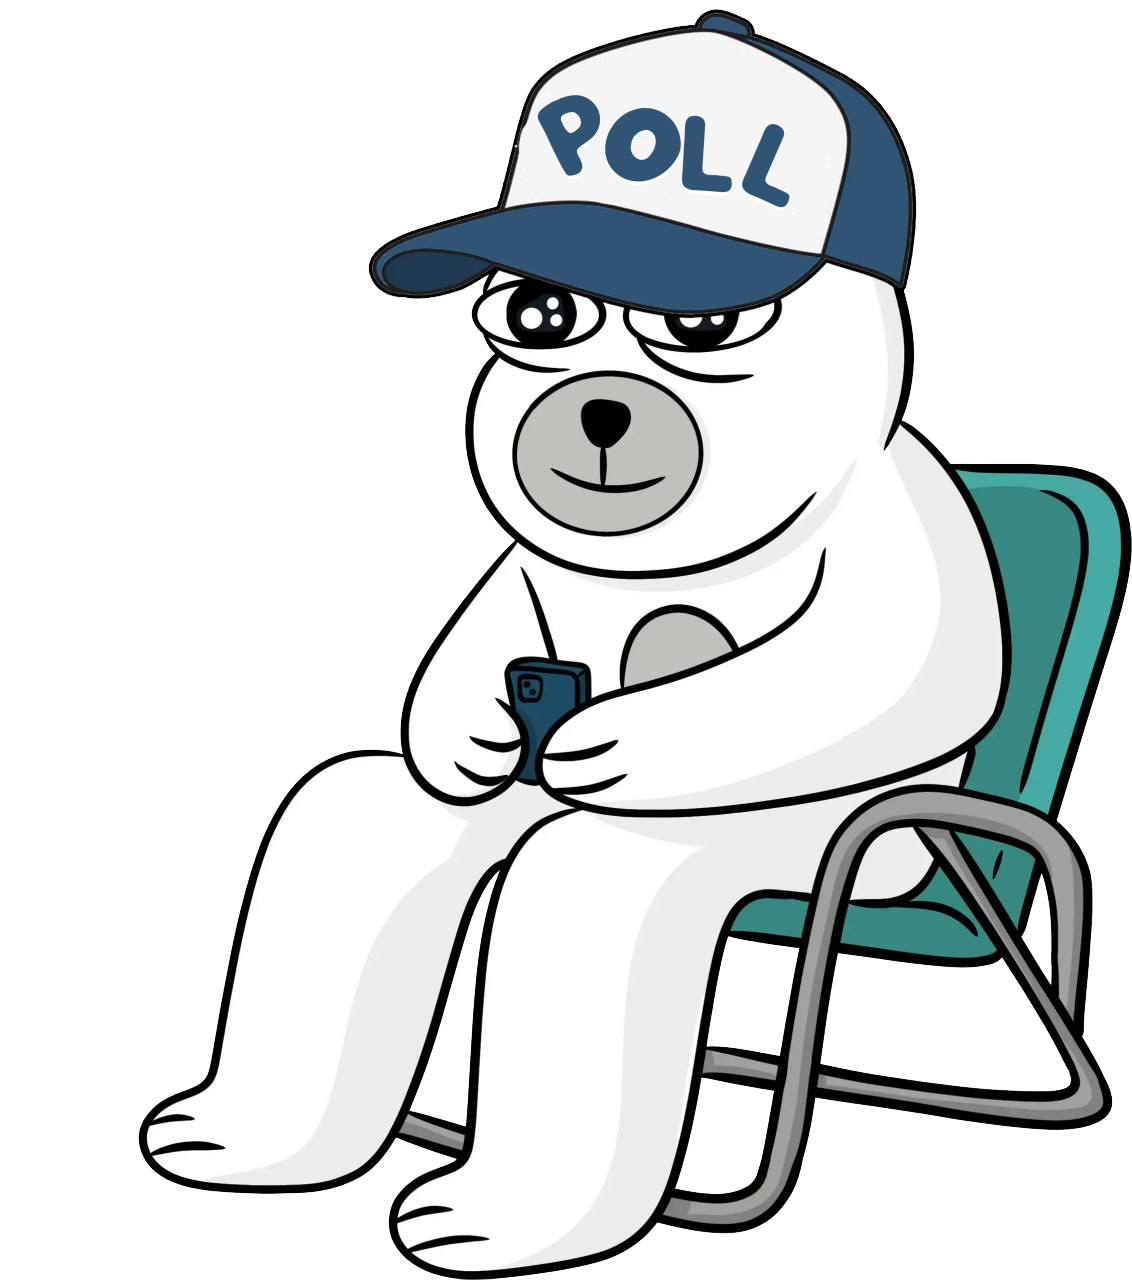
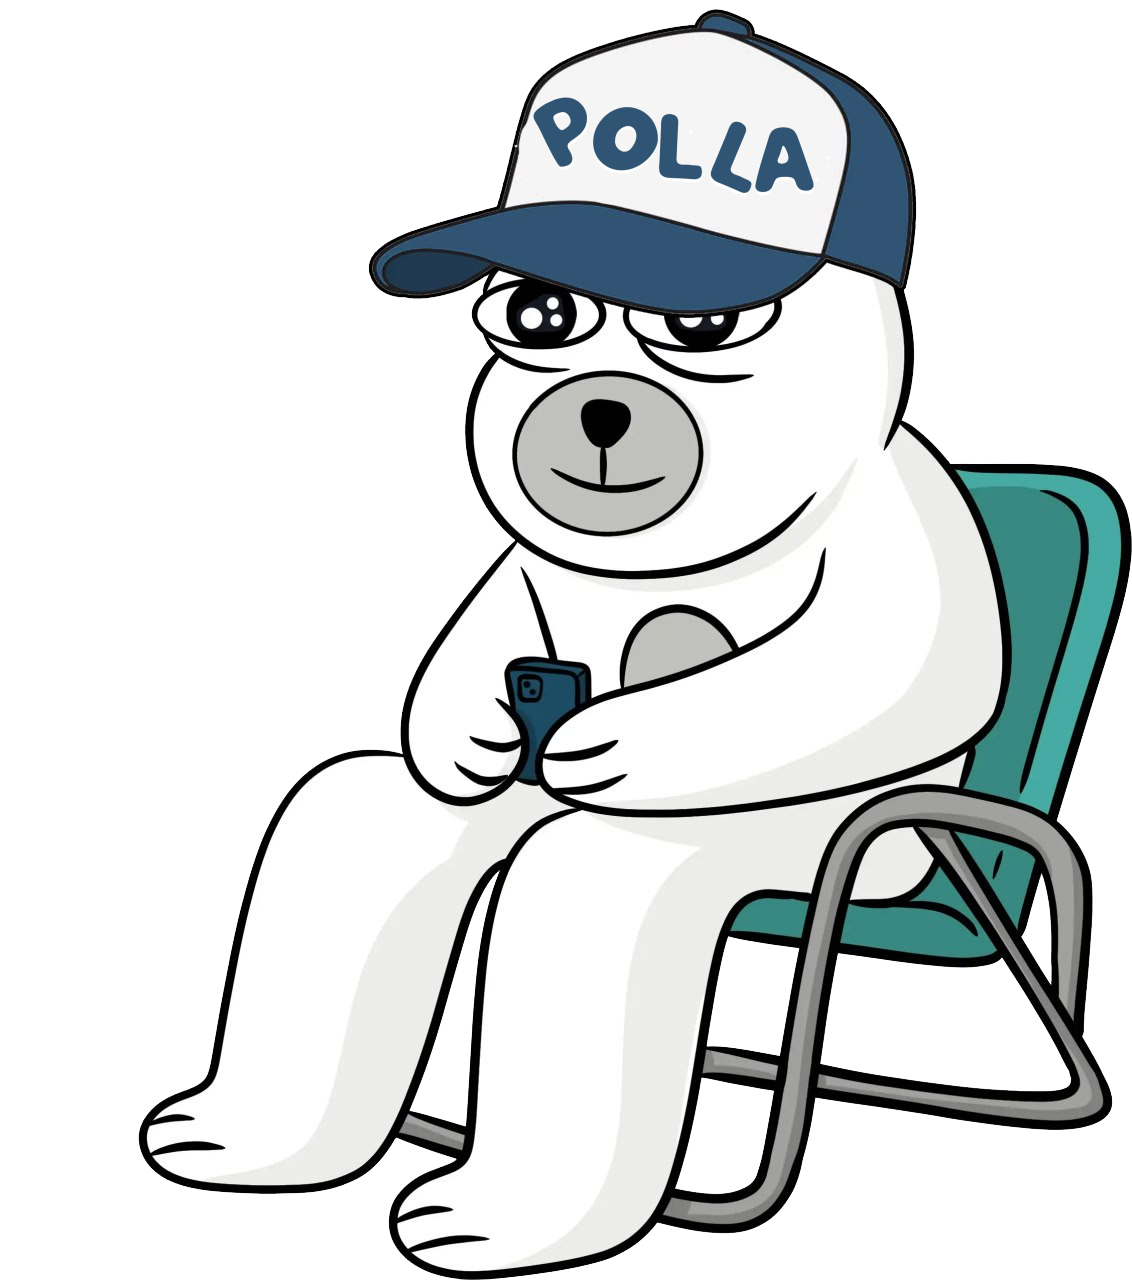
1

Changed region(s): [[0.4638, 0.0625, 0.742, 0.1562]]

diff --git a/index.html b/index.html
@@ -16,22 +16,22 @@
 		<meta name="distribution" content="global"> 
 		<meta name="robots" content="index,follow"> 
 		<meta name="country" content="US">
-		<meta name="description" content="POLL is the newest charismatic fluffy ruler of the frozen crypto tundra. This fun, decentralized, community-driven token is built on Solana Chain.">
+		<meta name="description" content="POLLA is the newest charismatic fluffy ruler of the frozen crypto tundra. This fun, decentralized, community-driven token is built on Solana Chain.">
 		<meta name="google-site-verification" content="">
 		
 		<!-- Open Graph Meta Tags -->
 		<meta property="og:type" content="website">
 		<meta property="og:url" content="">
-		<meta property="og:title" content="POLL | The Official POLL Bear on Solanachain">
-		<meta property="og:description" content="POLL is the newest charismatic fluffy ruler of the frozen crypto tundra. This fun, decentralized, community-driven token is built on Solana Chain.">
+		<meta property="og:title" content="POLLA | The Official POLLA Bear on Solanachain">
+		<meta property="og:description" content="POLLA is the newest charismatic fluffy ruler of the frozen crypto tundra. This fun, decentralized, community-driven token is built on Solana Chain.">
 
 		
 		<!-- Twitter Card Meta Tags -->
 		<meta name="twitter:card" content="summary_large_image">
 		<meta name="twitter:site" content="@polaonbase">
 		<meta name="twitter:url" content="https://www.polaonbase.com/">
-		<meta name="twitter:title" content="POLL | The Official POLLr Bear on Solanachain">
-		<meta name="twitter:description" content="POLL is the newest charismatic fluffy ruler of the frozen crypto tundra. This fun, decentralized, community-driven token is built on Solana Chain.">
+		<meta name="twitter:title" content="POLLA | The Official POLLAr Bear on Solanachain">
+		<meta name="twitter:description" content="POLLA is the newest charismatic fluffy ruler of the frozen crypto tundra. This fun, decentralized, community-driven token is built on Solana Chain.">
 		<meta property="twitter:image" content="https://polaonbase.com/assets/images/pola-twitter-og.jpg">
 		
 		<!-- Favicon and Additional Resources -->
@@ -44,7 +44,7 @@
 		<meta name="msapplication-TileColor" content="#9c2730">
 		<meta name="theme-color" content="#ffffff">
 		
-		<title>POLL | The Official Polar Bear on Solanachain</title>
+		<title>POLLA | The Official Polar Bear on Solanachain</title>
 		<link href="assets/css/include.css" rel="stylesheet">
 		<!-- Google tag (gtag.js) -->
 		<script async src="https://www.googletagmanager.com/gtag/js?id=G-083C66RB80"></script>
@@ -74,12 +74,12 @@
 							<span>O</span>
 							<span>L</span>
 							<span>L</span>
-<!--							<span style="rotate: -10deg; margin-left:-20px; margin-right: 10px;">E</span>-->
+							<span style="rotate: -10deg; margin-left:-20px; margin-right: 10px;">A</span>
 <!--							<span>R</span>-->
 
 						</h1>
 						<div class="vstack mx-auto col-12 col-xl-6 milky fs-3 text-center gap-1 lh-base text-blue-4">
-							<span>Hi I'm POLL</span>
+							<span>Hi I'm POLLA</span>
 							<span>I'm the coldest, chillest, and funniest bear</span>
 							<span>in the entire SOLArctic. Welcome to my world.</span>
 						</div>
@@ -138,8 +138,8 @@
 				<div class="container py-5 position-relative">
 					<div class="d-flex flex-column col-12 col-lg-8 justify-content-center gap-4 text-center position-relative z-1 py-0 py-md-5 text-blue-4 milky">
 						<h2 class="display-3">A New King Has Risen</h2>
-						<p class="fs-5 lh-base">Meet POLL, the latest ruler of the icy domains of cryptocurrency, a royal polar bear who's more chilled than the arctic ice and cooler than the other side of the pillow. Born on the vast, frostbitten landscapes of the Solana Chain, this fluffy monarch has swiftly ascended to the throne, not through bloodshed or conquest, but with sheer charisma and an unshakable belief in the power of meme magic.</p>
-						<p class="fs-5 lh-base">This is not your average bear. POLL's reign is marked by his unorthodox approach to governance; he rules with a gentle paw and a heart as big as his appetite for salmon. In a world where seriousness often overshadows fun, POLL dares to ask, "Why not both?" He's democratizing the crypto kingdom one belly slide at a time, proving that you can indeed mix business with pleasure and that every bear can have his fish and eat it too.</p>
+						<p class="fs-5 lh-base">Meet POLLA, the latest ruler of the icy domains of cryptocurrency, a royal polar bear who's more chilled than the arctic ice and cooler than the other side of the pillow. Born on the vast, frostbitten landscapes of the Solana Chain, this fluffy monarch has swiftly ascended to the throne, not through bloodshed or conquest, but with sheer charisma and an unshakable belief in the power of meme magic.</p>
+						<p class="fs-5 lh-base">This is not your average bear. POLLA's reign is marked by his unorthodox approach to governance; he rules with a gentle paw and a heart as big as his appetite for salmon. In a world where seriousness often overshadows fun, POLLA dares to ask, "Why not both?" He's democratizing the crypto kingdom one belly slide at a time, proving that you can indeed mix business with pleasure and that every bear can have his fish and eat it too.</p>
 					</div>
 				</div>
 				<div class="baby-pola"></div>
@@ -149,17 +149,17 @@
 					<div class="d-flex flex-column-reverse flex-md-row gap-4">
 						<div class="d-flex flex-column justify-content-center gap-4 col-12 col-md-6">
 							<div class="d-flex flex-column gap-1 text-blue-4">
-								<span class="fs-4 milky lh-base">POLL on Solanachain</span>
-								<h2 class="milky display-s lh-1 ">OFFICIAL POLL LINKS</h2>
+								<span class="fs-4 milky lh-base">POLLA on Solanachain</span>
+								<h2 class="milky display-s lh-1 ">OFFICIAL POLLA LINKS</h2>
 							</div>
 
 							<div class="d-flex flex-column gap-2">
 								<span class="fs-6 milky fw-bolder text-blue-4">Social &amp; Onchain Data</span>
 								<div class="socials hstack gap-3">
-									<a href="https://x.com/pollsolana" target="_blank">
+									<a href="https://x.com/pollasolana" target="_blank">
 										<div class="icon twitter rounded-circle"></div>
 									</a>
-									<a href="https://t.me/pollsolana" target="_blank">
+									<a href="https://t.me/pollasolana" target="_blank">
 										<div class="icon telegram rounded-circle"></div>
 									</a>
 									<a href="#" target="_blank">
@@ -174,7 +174,7 @@
 								<span class="fs-6 milky fw-bolder text-blue-4">Exchanges (MORE TBA)</span>
 								<div class="row row-cols-2 row-cols-lg-3 g-3">
 									<div class="col">
-										<a href="https://pump.fun/RXo6mydUkNvdM3sw9h8bYDQHK9xH2oh54W9f8gcQump" target="_blank" class="h-100 btn btn-md btn-light rounded-pill w-100 py-2 px-3">
+										<a href="https://pump.fun/QuA4bcRodooYH5F9ooQM9emk1wAzX2sZEE9m4Zx9ump" target="_blank" class="h-100 btn btn-md btn-light rounded-pill w-100 py-2 px-3">
 											<img src="assets/logos/pumpfun.svg" class="w-75 mt-1" alt="uniswap link">
 										</a>
 									</div>
@@ -197,10 +197,10 @@
 							</div-->
 						</div>
 						<div class="col-12 col-md-4 pola-in-phone">
-							<a class="polarmy-buble polarmy-link" href="https://t.me/pollsolana"><img src="assets/images/pola-phone-bubble-r.png" class="w-100 " alt="click to join polarmy"></a>
-							<a href="https://t.me/pollsolana"><img src="assets/images/pola-phone-r.png" class="w-100 " alt="pola having fun on tg"></a>
-							<a class="polarmy-buble polarmy-link" href="https://t.me/pollsolana"><img src="assets/images/pola-phone-bubble-l.png" class="w-100 " alt="click to join polarmy"></a>
-							<a  href="https://t.me/pollsolana"><img src="assets/images/pola-phone-l.png" class="w-100 " alt="pola having fun on tg"></a>
+							<a class="polarmy-buble polarmy-link" href="https://t.me/pollasolana"><img src="assets/images/pola-phone-bubble-r.png" class="w-100 " alt="click to join polarmy"></a>
+							<a href="https://t.me/pollasolana"><img src="assets/images/pola-phone-r.png" class="w-100 " alt="pola having fun on tg"></a>
+							<a class="polarmy-buble polarmy-link" href="https://t.me/pollasolana"><img src="assets/images/pola-phone-bubble-l.png" class="w-100 " alt="click to join polarmy"></a>
+							<a  href="https://t.me/pollasolana"><img src="assets/images/pola-phone-l.png" class="w-100 " alt="pola having fun on tg"></a>
 						</div>
 					</div>
 					
@@ -226,17 +226,17 @@
 			<section id="tokenomics" class="position-relative bg-blue-4 py-5 snow-cap">
 				<div class="container py-5 position-relative">
 					<div class="vstack gap-4 text-center mb-5 col-12 col-xl-6 mx-auto text-white milky">
-						<h2 class="display-1 shouxietongzhen gradient-txt-1">POLLnomics</h2>
-						<p class="fs-5 lh-base">Adhering to the ethos of decentralization, $POLL adopted a strategy to ensure genuine community ownership and nurture growth with steadfast support from the community.</p>
+						<h2 class="display-1 shouxietongzhen gradient-txt-1">POLLAnomics</h2>
+						<p class="fs-5 lh-base">Adhering to the ethos of decentralization, $POLLA adopted a strategy to ensure genuine community ownership and nurture growth with steadfast support from the community.</p>
 					</div>
 
 					<div class="d-flex flex-column flex-xl-row disclaimer rounded-4 p-3 border border-4 border-blue-1 shadow gap-3 col-12 col-xl-8 mx-auto mb-4 bg-white milky text-blue-4">
-						<a href="https://pump.fun/RXo6mydUkNvdM3sw9h8bYDQHK9xH2oh54W9f8gcQump"><button class="btn btn-lg btn-light px-3">
-							<span class="fw-bold fs-6 text-blue-4">Buy $POLL</span>
+						<a href="https://pump.fun/QuA4bcRodooYH5F9ooQM9emk1wAzX2sZEE9m4Zx9ump"><button class="btn btn-lg btn-light px-3">
+							<span class="fw-bold fs-6 text-blue-4">Buy $POLLA</span>
 						</button></a>
 						<div class="col-12 col-xl-10 hstack gap-3 justify-content-between rounded-3 border p-1 fs-6">
-							<span class="text-truncate fw-bold ms-3 contact">Contract address: RXo6mydUkNvdM3sw9h8bYDQHK9xH2oh54W9f8gcQump</span>
-							<button class="btn btn-md btn-light copy" data-text="RXo6mydUkNvdM3sw9h8bYDQHK9xH2oh54W9f8gcQump">
+							<span class="text-truncate fw-bold ms-3 contact">Contract address: QuA4bcRodooYH5F9ooQM9emk1wAzX2sZEE9m4Zx9ump</span>
+							<button class="btn btn-md btn-light copy" data-text="QuA4bcRodooYH5F9ooQM9emk1wAzX2sZEE9m4Zx9ump">
 								<i class="bi bi-clipboard"></i>
 							</button>
 						</div>
@@ -309,7 +309,7 @@
 									<img src="assets/images/icons/base.svg" class="w-100" alt="base logo">
 								</div>
 								<h3 class="fw-bolder fs-1 milky text-uppercase lh-1">Secure Solana (BASE ETH)</h3>
-								<p class="fs-6 lh-base milky">Purchase Solanachain Ethereum (BASE), the foundational currency required for transactions on the base network where $POLL operates. BASE ETH acts as the "gas" for transactions, including buying $POLL.</p>
+								<p class="fs-6 lh-base milky">Purchase Solanachain Ethereum (BASE), the foundational currency required for transactions on the base network where $POLLA operates. BASE ETH acts as the "gas" for transactions, including buying $POLLA.</p>
 							</div>
 						</div>
 						<div class="col">
@@ -317,8 +317,8 @@
 								<div class="col-4 col-md-2">
 									<img src="assets/images/pola-5.webp" class="w-100" alt="buy pola">
 								</div>
-								<h3 class="fw-bolder fs-1 milky text-uppercase lh-1">Buy $POLL</h3>
-								<p class="fs-6 lh-base milky">Use your newly acquired BASE ETH to purchase $POLL tokens through a cryptocurrency exchange or decentralized exchange platform that lists $POLL.</p>
+								<h3 class="fw-bolder fs-1 milky text-uppercase lh-1">Buy $POLLA</h3>
+								<p class="fs-6 lh-base milky">Use your newly acquired BASE ETH to purchase $POLLA tokens through a cryptocurrency exchange or decentralized exchange platform that lists $POLLA.</p>
 							</div>
 						</div>
 						<div class="col">
@@ -327,7 +327,7 @@
 									<img src="assets/images/icons/crypto-wallet.svg" class="w-100" alt="wallet logo">
 								</div>
 								<h3 class="fw-bolder fs-1 milky text-uppercase lh-1">Add To Your Wallet</h3>
-								<p class="fs-6 lh-base milky">Import $POLL tokens into your MetaMask wallet by adding the pola token's contract address. This allows you to view and manage your $POLL holdings directly within MetaMask.</p>
+								<p class="fs-6 lh-base milky">Import $POLLA tokens into your MetaMask wallet by adding the pola token's contract address. This allows you to view and manage your $POLLA holdings directly within MetaMask.</p>
 							</div>
 						</div>
 					</div>
@@ -345,8 +345,8 @@
 					
 						<img src="assets/images/VPN-Logo.svg" class="vpn-logo" alt="pola vpn logo">
 						
-						<h2 class="text-nowrap milky display-s lh-1">POLL VPN</h2>
-						<span class="text-center fs-6 lh-base milky">POLLVPN is the very first memecoin to have this feature. it is your gateway to a secure and unrestricted online experience, designed with your privacy in mind. Whether you're browsing, streaming, or working remotely, POLLVPN ensures your data stays protected and your connections remain anonymous.</span>
+						<h2 class="text-nowrap milky display-s lh-1">POLLA VPN</h2>
+						<span class="text-center fs-6 lh-base milky">POLLAVPN is the very first memecoin to have this feature. it is your gateway to a secure and unrestricted online experience, designed with your privacy in mind. Whether you're browsing, streaming, or working remotely, POLLAVPN ensures your data stays protected and your connections remain anonymous.</span>
 						<div class="vpn-button-container" >
 							<button type="button" id="openISOApp" class="vpn-button border btn btn-light rounded-pill milky py-4 p-5 hstack gap-3 justify-content-center w-48">
 								<span class="fw-bolder fs-4">Android App soon</span>
@@ -403,10 +403,10 @@
 								<img src="assets/images/nfts/10.webp" alt="pola nft">
 							</div>
 						</div>
-						<h2 class="display-s lh-1 milky text-blue-4">POLL NFT</h2>
+						<h2 class="display-s lh-1 milky text-blue-4">POLLA NFT</h2>
 						<div class="vstack gap-3 fs-6 fw-normal lh-base text-dark text-opacity-75">
-							<p>Explore POLL NFT, an enchanting collection of 5,000 NFTs, released on Solana drawing inspiration from a cherished polar bear, these NFTs capture the essence and spirit of a unique polar bear-inspired theme.</p>
-							<p>Owning a POLL NFT connects you to the dynamic community surrounding this theme, signifying your appreciation and embrace of the unique culture these digital assets symbolize.</p>
+							<p>Explore POLLA NFT, an enchanting collection of 5,000 NFTs, released on Solana drawing inspiration from a cherished polar bear, these NFTs capture the essence and spirit of a unique polar bear-inspired theme.</p>
+							<p>Owning a POLLA NFT connects you to the dynamic community surrounding this theme, signifying your appreciation and embrace of the unique culture these digital assets symbolize.</p>
 						</div>
 						<div>
 							<span class="fw-bold fw-bold py-2 rounded-pill">Collection Coming Soon</span>
@@ -423,14 +423,14 @@
 							<div class="d-flex flex-column gap-1 text-blue-4">
 								<span class="fs-4 milky">Ice Cream Products</span>
 								<div class="hstack">
-									<h2 id="data-title" class="text-nowrap milky display-s lh-1">POLLPops</h2>
+									<h2 id="data-title" class="text-nowrap milky display-s lh-1">POLLAPops</h2>
 									<span class="fs-2 fw-bold lh-1">ⓒ</span>
 								</div>
-								<span id="data-description" class="fs-6 lh-base milky">POLL Pops brings a refreshing twist to your favorite frozen treat! Our ice creams are handcrafted with natural ingredients, offering a burst of flavors that are as unique as they are delicious. From the classic creamy delights to exotic fruit-filled wonders, each POLL Pop is designed to provide a blissful escape into a world of sweet, frosty pleasure.</span>
+								<span id="data-description" class="fs-6 lh-base milky">POLLA Pops brings a refreshing twist to your favorite frozen treat! Our ice creams are handcrafted with natural ingredients, offering a burst of flavors that are as unique as they are delicious. From the classic creamy delights to exotic fruit-filled wonders, each POLLA Pop is designed to provide a blissful escape into a world of sweet, frosty pleasure.</span>
 							</div>
 
 							<div class="d-flex flex-column gap-4">
-								<span class="fs-3 milky text-blue-4">POLLPops Flavors</span>
+								<span class="fs-3 milky text-blue-4">POLLAPops Flavors</span>
 								<div class="row row-cols-3 row-cols-md-5 g-3 ice-creams">
 																		<div data-id="1" class="col data-source">
 										<a role="button" data-image="assets/flavors/1.webp" class="vstack h-100 rounded-4 p-3 gap-3 text-center">
@@ -499,7 +499,7 @@
 								<span class="fw-bold fs-6">Legal Disclaimer</span>
 								<i class="bi bi-arrow-down-circle-fill"></i>
 							</a>
-							<p id="legal" class="p-3 fs-7 lh-base d-none text-white">The content on the POLL Token website is not meant to be understood as investment, financial, trading, or any form of advice, and should not be interpreted as such. POLL Token does not suggest that any should be bought, sold, or held by you. It is important to perform your own thorough research and consult with your financial advisor prior to making any investment decisions. By acquiring POLL Token, you acknowledge that you are not obtaining a security or investment and you agree to absolve POLL Token of any responsibility for any losses or taxes you may face. Additionally, you accept that POLL Token is offered "as is" without any obligation for support or services. Expectations from POLL Token should be none. Although POLL Token is designed for social networking and is not a registered digital currency, it is highly advised that individuals in locations where is banned by the government refrain from purchasing it, as POLL Token cannot guarantee adherence to the legal requirements of your region. Always ensure your actions are in full compliance with local laws and regulations before making any purchases.</p>
+							<p id="legal" class="p-3 fs-7 lh-base d-none text-white">The content on the POLLA Token website is not meant to be understood as investment, financial, trading, or any form of advice, and should not be interpreted as such. POLLA Token does not suggest that any should be bought, sold, or held by you. It is important to perform your own thorough research and consult with your financial advisor prior to making any investment decisions. By acquiring POLLA Token, you acknowledge that you are not obtaining a security or investment and you agree to absolve POLLA Token of any responsibility for any losses or taxes you may face. Additionally, you accept that POLLA Token is offered "as is" without any obligation for support or services. Expectations from POLLA Token should be none. Although POLLA Token is designed for social networking and is not a registered digital currency, it is highly advised that individuals in locations where is banned by the government refrain from purchasing it, as POLLA Token cannot guarantee adherence to the legal requirements of your region. Always ensure your actions are in full compliance with local laws and regulations before making any purchases.</p>
 						</div>
 
 						<div class="vstack disclaimer rounded-4 shadow-sm">
@@ -512,11 +512,11 @@
 
 						<div class="d-flex flex-column flex-xl-row disclaimer rounded-4 p-3 shadow gap-3">
 							<button class="btn btn-lg btn-light px-3">
-								<a class="fw-bold fs-6 text-nowrap text-black" href="https://pump.fun/RXo6mydUkNvdM3sw9h8bYDQHK9xH2oh54W9f8gcQump" target="_blank">Buy $POLL</a>
+								<a class="fw-bold fs-6 text-nowrap text-black" href="https://pump.fun/QuA4bcRodooYH5F9ooQM9emk1wAzX2sZEE9m4Zx9ump" target="_blank">Buy $POLLA</a>
 							</button>
 							<div class="col-12 col-xl-10 text-white hstack gap-3 justify-content-between rounded-3 border p-1 fs-6">
-								<span class="text-truncate fw-bold ms-3 contact">Contract address: RXo6mydUkNvdM3sw9h8bYDQHK9xH2oh54W9f8gcQump</span>
-								<button class="btn btn-md btn-light copy" data-text="RXo6mydUkNvdM3sw9h8bYDQHK9xH2oh54W9f8gcQump">
+								<span class="text-truncate fw-bold ms-3 contact">Contract address: QuA4bcRodooYH5F9ooQM9emk1wAzX2sZEE9m4Zx9ump</span>
+								<button class="btn btn-md btn-light copy" data-text="QuA4bcRodooYH5F9ooQM9emk1wAzX2sZEE9m4Zx9ump">
 									<i class="bi bi-clipboard"></i>
 								</button>
 							</div>
@@ -526,10 +526,10 @@
 							<div class="col-12 col-md-4">
 								<div class="vstack gap-3">
 									<img src="assets/logos/pola.svg" class="col-8" alt="pola logo">
-									<small class="d-block mb-3">Collect, create, and engage with POLL!</small>
+									<small class="d-block mb-3">Collect, create, and engage with POLLA!</small>
 									<div class="hstack gap-4">
-										<a href="https://x.com/pollsolana" target="_blank" class="fs-4"><i class="bi bi-twitter"></i></a>
-										<a href="https://t.me/pollsolana" target="_blank" class="fs-4"><i class="bi bi-telegram"></i></a>
+										<a href="https://x.com/pollasolana" target="_blank" class="fs-4"><i class="bi bi-twitter"></i></a>
+										<a href="https://t.me/pollasolana" target="_blank" class="fs-4"><i class="bi bi-telegram"></i></a>
 									</div>
 								</div>
 							</div>
@@ -543,13 +543,13 @@
 		<div class="menu text-nowrap rounded-pill position-fixed bottom-0 z-3 bg-white border border-4 shadow d-none d-lg-block">
 			<div class="menu-list hstack gap-1">
 								<a href="#home" class="d-none d-md-block btn rounded-pill active.">Home</a>
-								<a href="#about" class="d-none d-md-block btn rounded-pill">About POLL</a>
+								<a href="#about" class="d-none d-md-block btn rounded-pill">About POLLA</a>
 								<a href="#links" class="d-none d-md-block btn rounded-pill">Ecosystem</a>
 								<a href="#tokenomics" class="d-none d-md-block btn rounded-pill">Tokenomics</a>
 
 								<a href="#vpn" class="d-none d-md-block btn rounded-pill">VPN</a>
 								<a href="#nft" class="d-none d-md-block btn rounded-pill">NFT</a>
-								<a href="#popsicles" class="d-none d-md-block btn rounded-pill">POLLPops</a>
+								<a href="#popsicles" class="d-none d-md-block btn rounded-pill">POLLAPops</a>
 								<a href="#" class="d-block d-md-none hamburger-menu">
 					<div></div>
 					<div></div>
